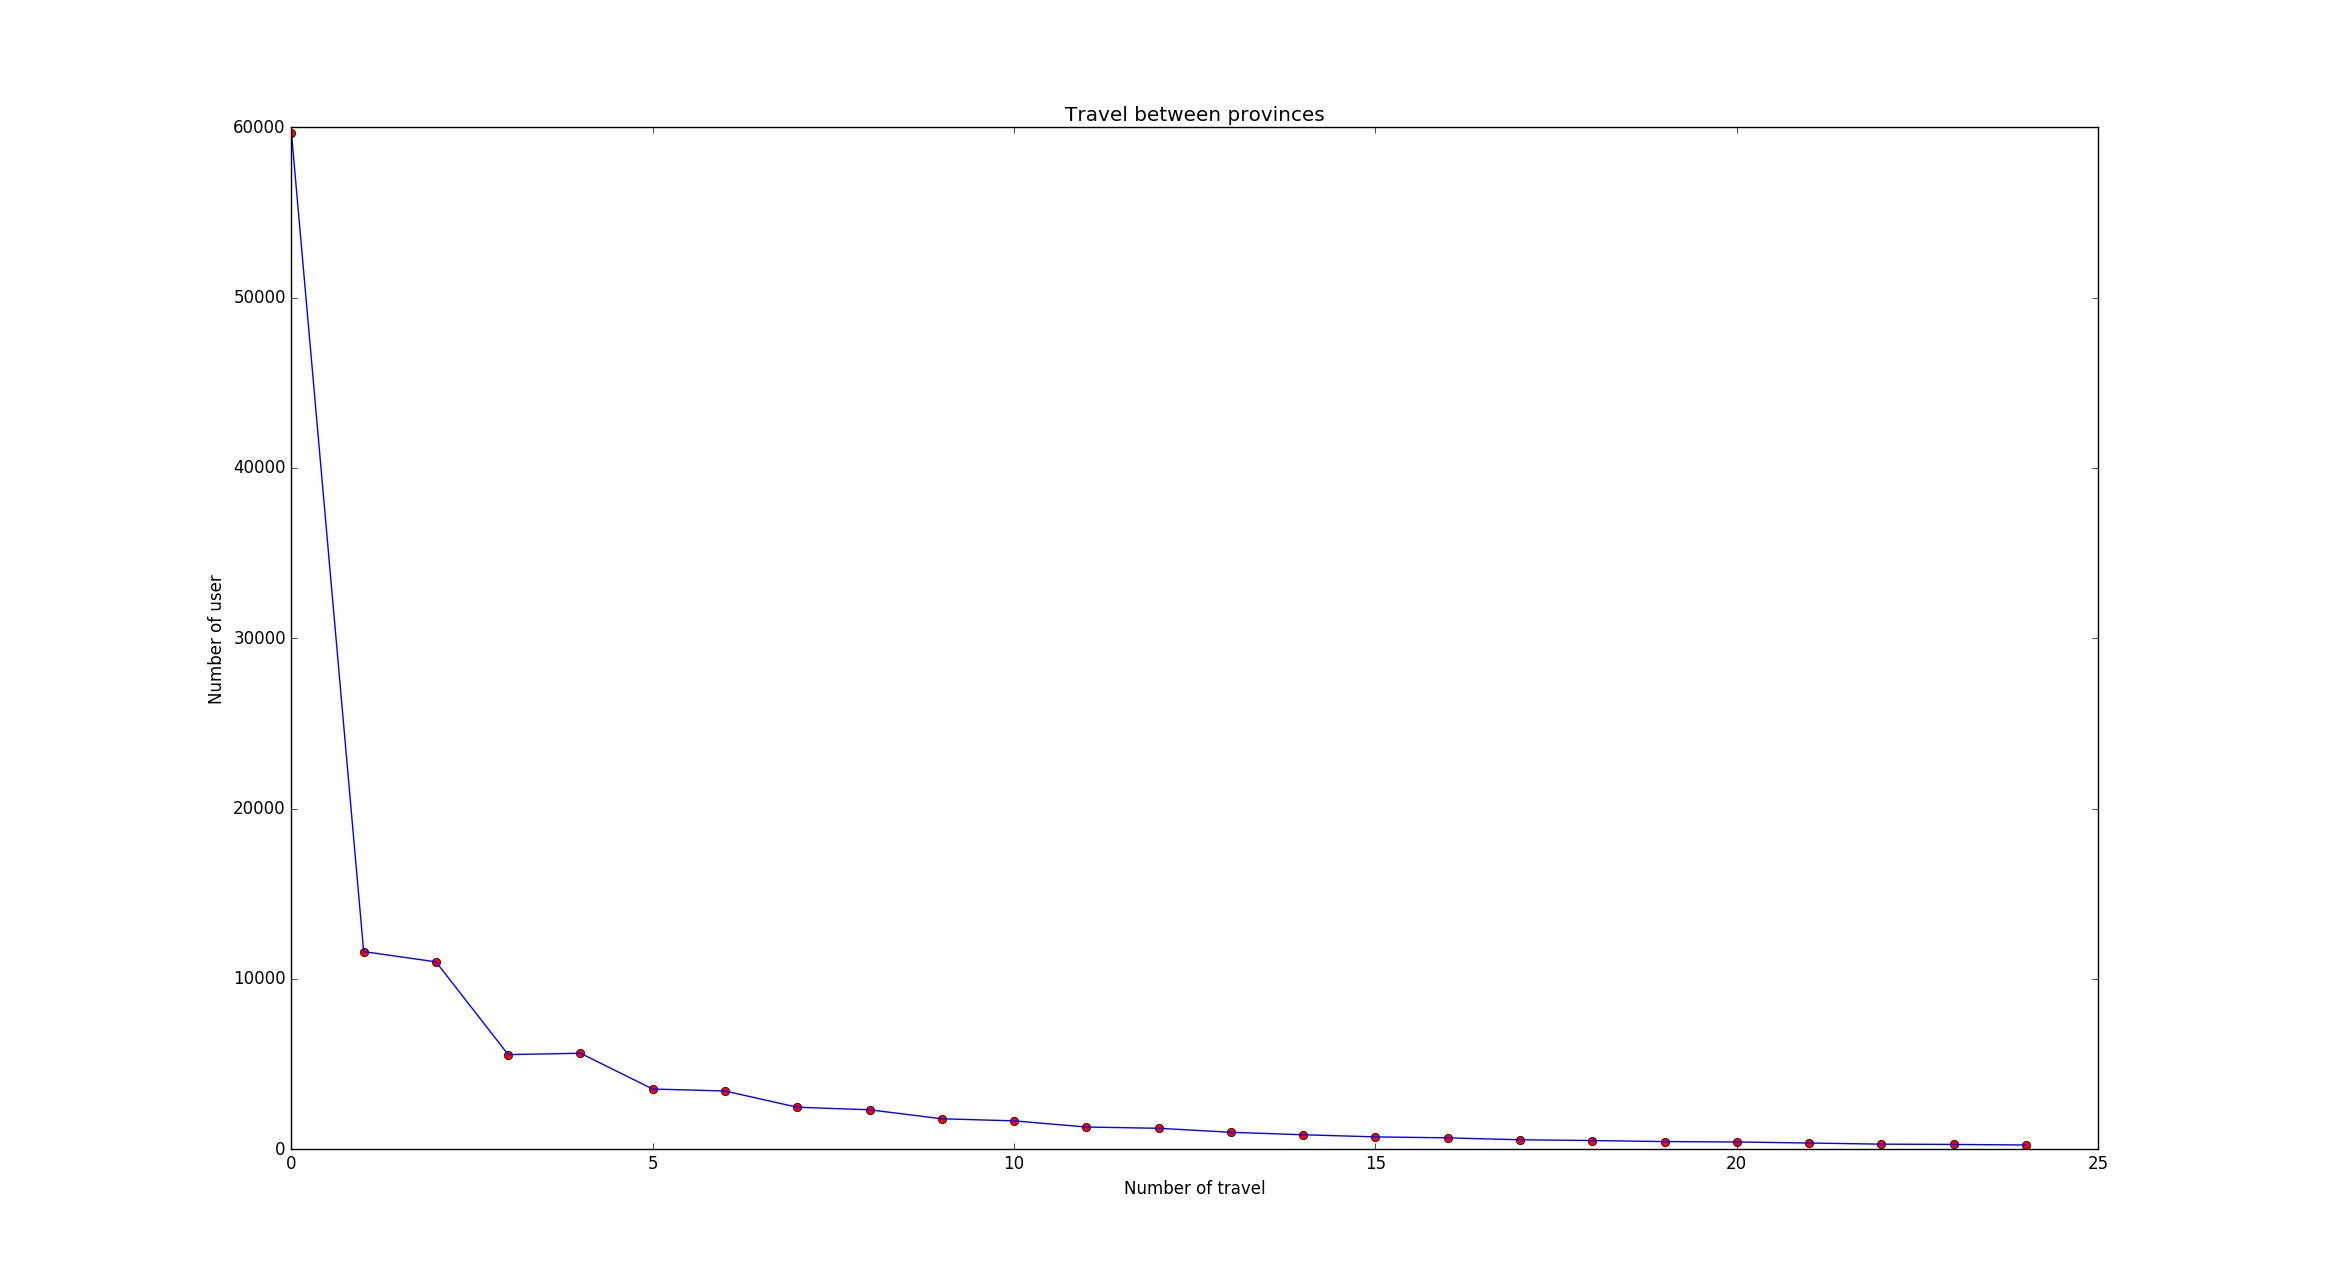
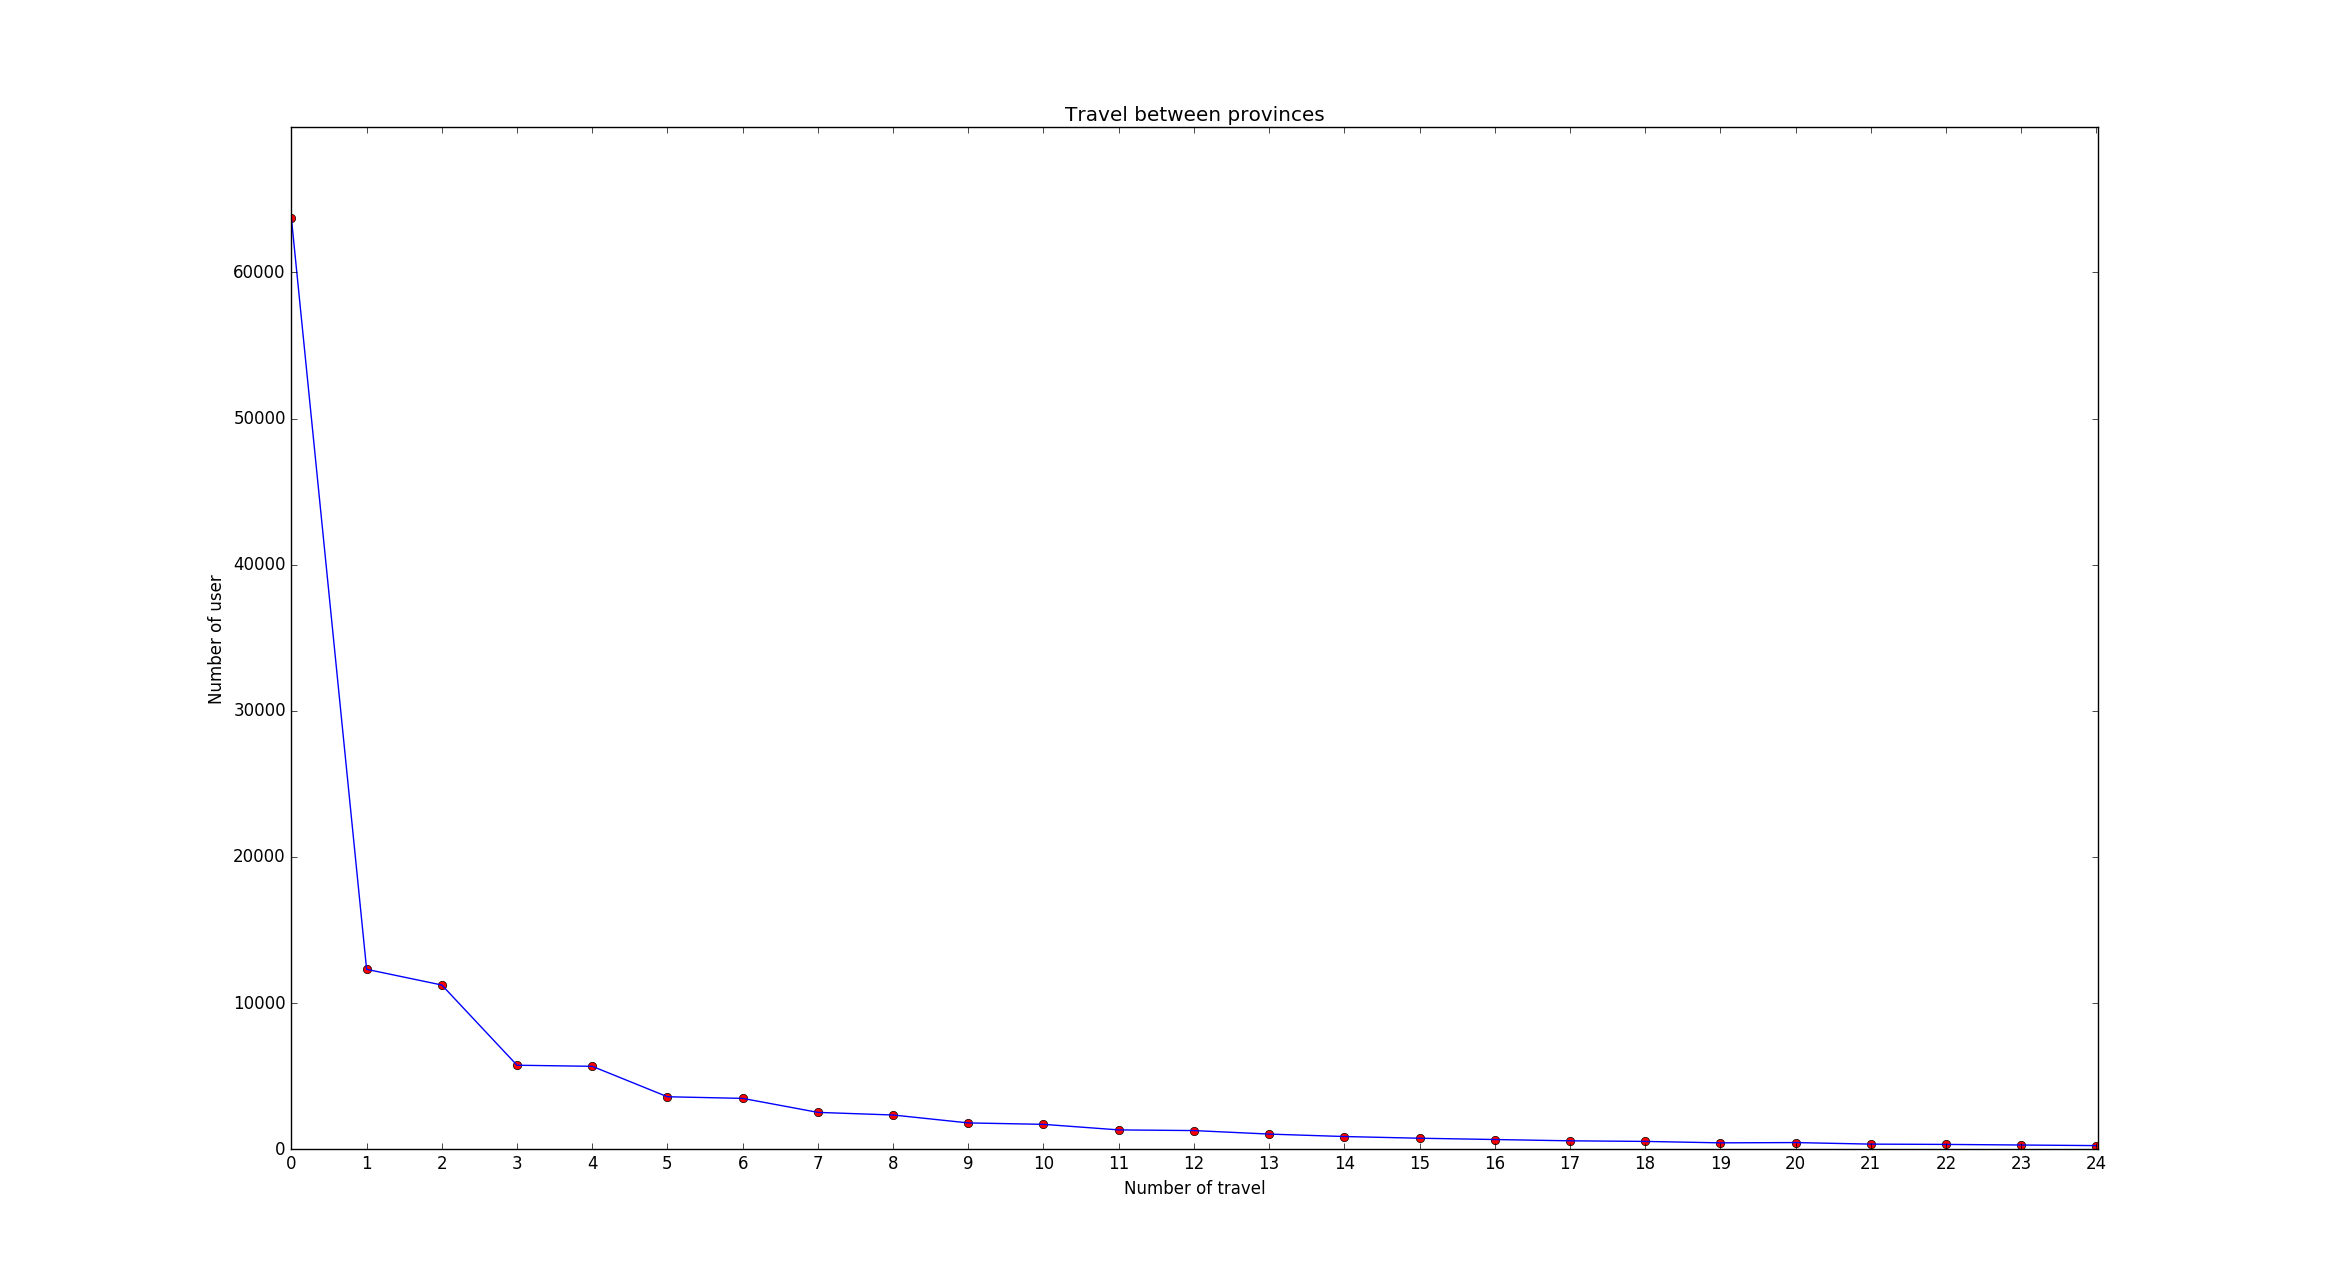
Update frequency plot

diff --git a/Visualize/user_travel_freq_plot.py b/Visualize/user_travel_freq_plot.py
@@ -44,6 +44,7 @@ if __name__ == '__main__':
     plt.plot(travelFreq, 'ro', travelFreq, 'b-')
     plt.xlabel('Number of travel')
     plt.ylabel('Number of user')
+    plt.xticks(range(len(travelFreq)))
     plt.title('Travel between provinces')
     plt.show()
 
@@ -52,6 +53,7 @@ if __name__ == '__main__':
     plt.plot(tweetFreq, 'ro', tweetFreq, 'b-')
     plt.xlabel('Number of tweet')
     plt.ylabel('Number of user')
+    plt.xticks(range(len(tweetFreq)))
     plt.title('Tweet frequency')
     plt.show()
 
@@ -60,6 +62,7 @@ if __name__ == '__main__':
     plt.plot(provinceFreq, 'ro', provinceFreq, 'b-')
     plt.xlabel('Number of provinces')
     plt.ylabel('Number of user')
+    plt.xticks(range(len(provinceFreq)))
     plt.title('Living provinces per user')
     plt.show()
 

diff --git a/Visualize/freq_by_time_plot.py b/Visualize/freq_by_time_plot.py
@@ -63,11 +63,6 @@ if __name__ == '__main__':
 
     # Plot tweet freq by day hour
     weekDayNames = ['Mon','Tue','Wed','Thu','Fri','Sat','Sun']
-    # Sum all day
-    for i in range(len(hourFreq)):
-        hourFreq[i] /= (delta.days+1)
-    plt.plot(hourFreq, '-', linewidth = 3, label = 'Mean')
-    plt.plot(hourFreq, 'ro')
     # Seperate by day
     for f1 in range(len(hourFreqDays)):
         for f2 in range(len(hourFreqDays[f1])):
